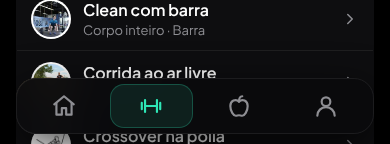
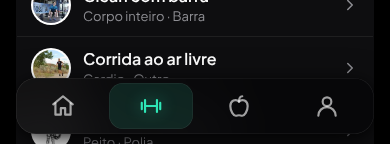
Tenta corrigir texto borrado no topo: página sem overflow hidden
Claude-Session: https://claude.ai/code/session_01Es3nx4fktYmLRAEuFrMwCv

diff --git a/css/style.css b/css/style.css
@@ -1328,7 +1328,7 @@ body.com-tela-salvar .tabbar, body.com-tela-salvar .barra-treino, body.com-tela-
 
 /* Quem rola é o #app, não a página (o iPhone entrega o toque no menu mesmo
    com a tela deslizando). */
-html, body { height: var(--altura-app, 100%); overflow: hidden; }
+html, body { height: var(--altura-app, 100%); }
 body { min-height: 0; }
 #app { position: fixed; top: 0; left: 0; right: 0; height: var(--altura-app, 100%); overflow-y: auto; overflow-x: hidden; overscroll-behavior-y: none; -webkit-overflow-scrolling: touch; }
 body.com-modal #app, body.com-tela-salvar #app { overflow: hidden; }

diff --git a/service-worker.js b/service-worker.js
@@ -8,7 +8,7 @@
 // Ao adicionar arquivos novos (ex.: módulo de dieta), inclua-os em ARQUIVOS
 // e aumente VERSAO.
 
-const VERSAO = 'v66';
+const VERSAO = 'v67';
 const CACHE_APP = `app-${VERSAO}`;
 const CACHE_CDN = 'cdn-v1';
 const CACHE_FOTOS = 'fotos-v1'; // fotos dos exercícios (não mudam)
